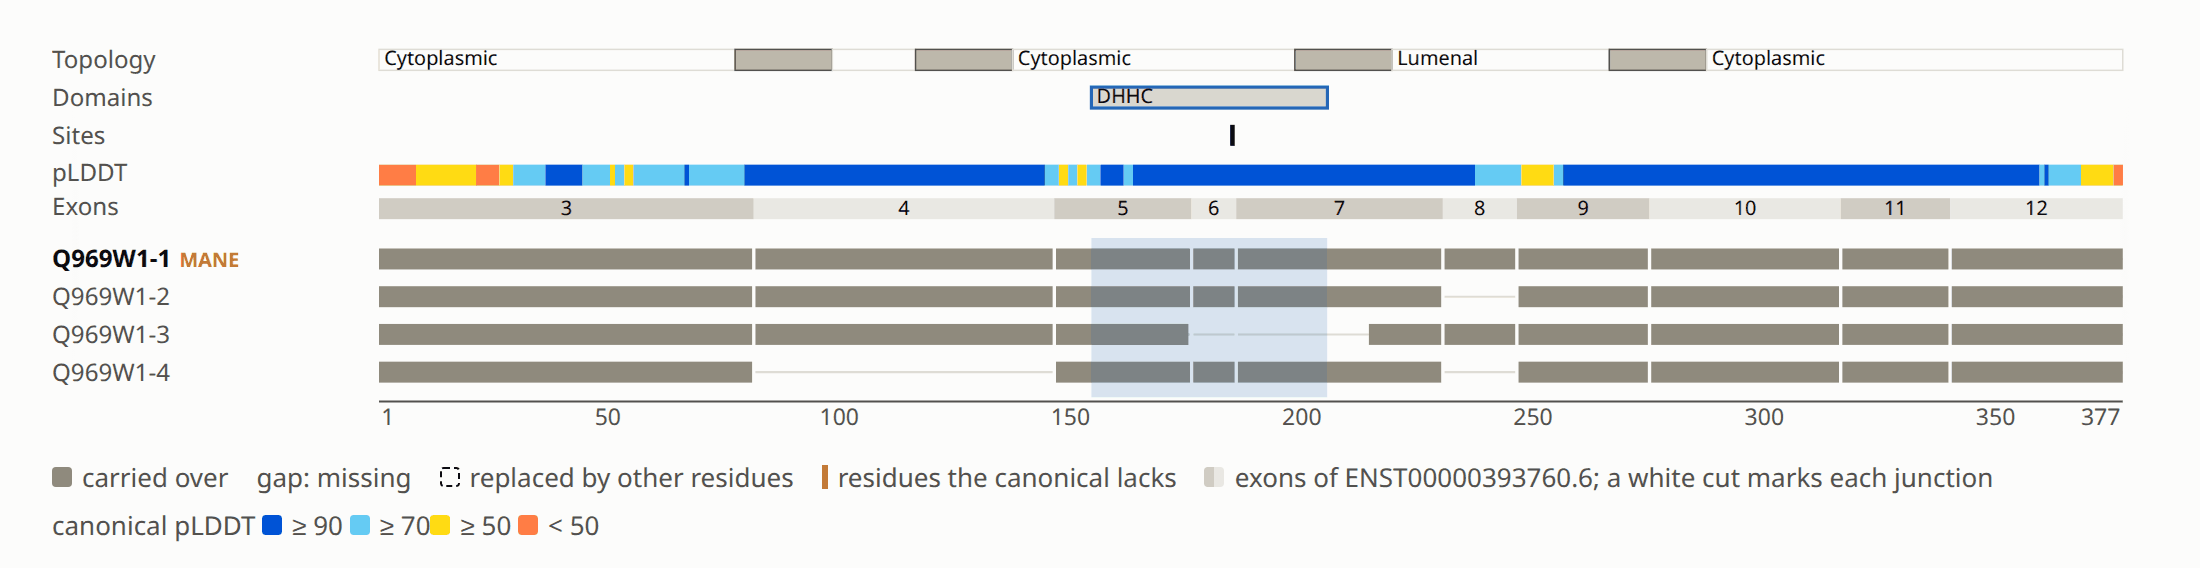
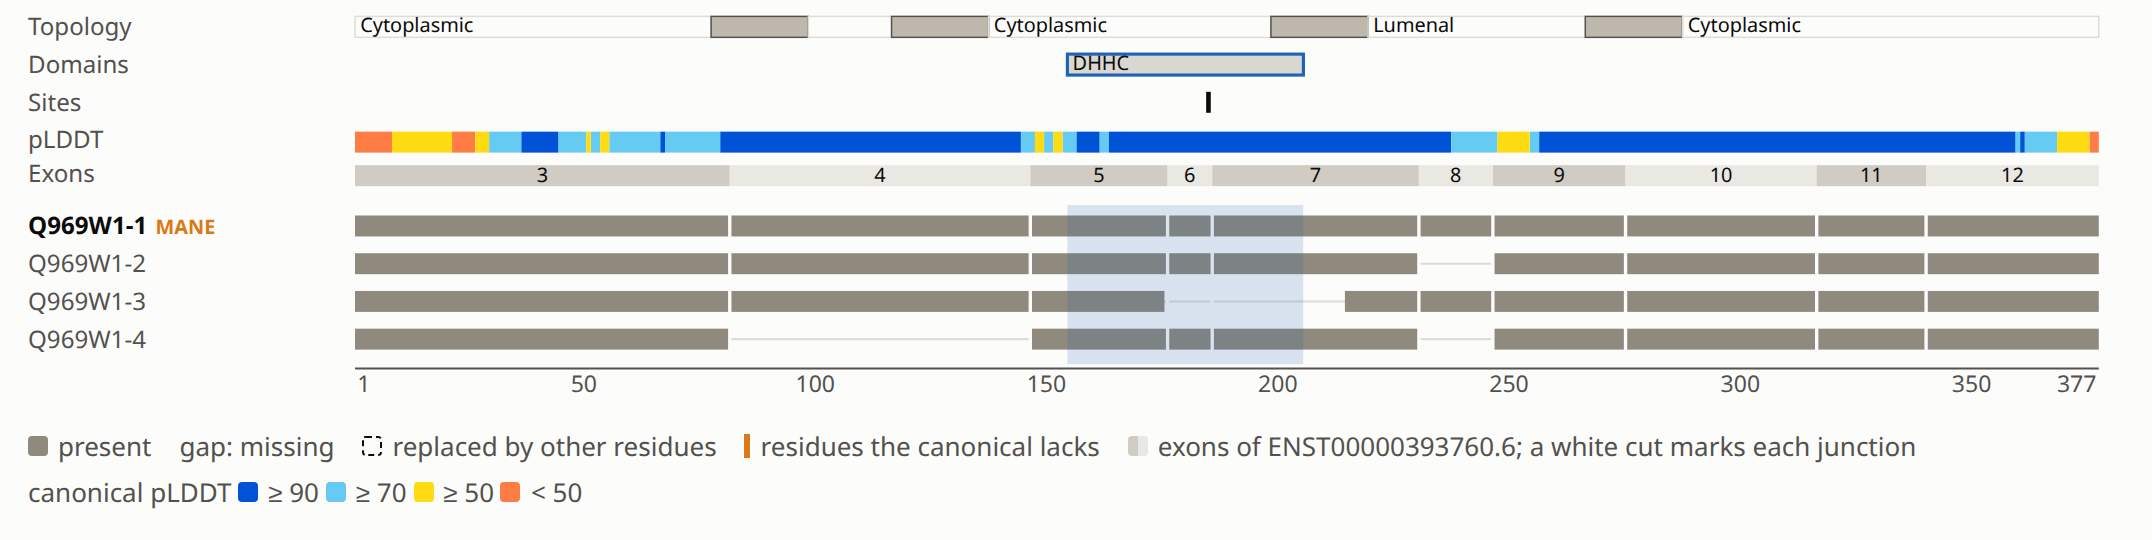
Home: start from a disease; post cards cropped to fill, wide heroes from the left
Eight familiar diseases link to their pages above the worked examples.
Post card images fill their 7:4 box, and heroPosition: 'left' keeps the
title of a wide drawing in the crop. site/preview.png is retaken so its
legend reads "present".

diff --git a/web/styles/site.css b/web/styles/site.css
@@ -217,7 +217,7 @@ section {
   width: 100%;
   height: auto;
   aspect-ratio: 7 / 4;
-  object-fit: contain;
+  object-fit: cover;
   background: var(--surface);
   border: 1px solid var(--border);
   border-radius: 6px;
@@ -928,4 +928,19 @@ table.browse .protein {
 .disease-list li {
   break-inside: avoid;
   margin-bottom: 4px;
+}
+
+.disease-chips {
+  display: flex;
+  flex-wrap: wrap;
+  gap: 8px;
+  padding: 0;
+  list-style: none;
+}
+
+.disease-chips li {
+  padding: 6px 12px;
+  border: 1px solid var(--border);
+  border-radius: 999px;
+  background: var(--surface-2);
 }

diff --git a/web/content.config.ts b/web/content.config.ts
@@ -12,6 +12,7 @@ const blog = defineCollection({
       order: z.number().optional(),
       hero: image(),
       heroAlt: z.string(),
+      heroPosition: z.enum(['left', 'center']).default('center'),
     }),
 })
 

diff --git a/handoffs/design.md b/handoffs/design.md
@@ -118,7 +118,11 @@ story. The same standard applies here.
   linked to that page and hidden on phones. Search (gene, UniProt accession,
   ENST, NM) has its own page, linked from the header: the owner found a search
   box front and center discouraging to visitors who first want to know what
-  the site is about. Then a card per blog post with its hero, and a closing
+  the site is about. Then "Start from a disease": eight familiar disease
+  names (`FAMILIAR` in `web/pages/index.astro`, checked against
+  `diseases.json` at build) and a link to the full list. Then a card per blog
+  post with its hero, cropped to 7:4 (`heroPosition: 'left'` in a post's
+  frontmatter keeps a wide drawing's title in the crop), and a closing
   note that the site compares sequences and points to the expression post
   rather than straight to GTEx, whose per-transcript numbers that post shows
   can mislead. The home page has no tiles of counts: the owner found them

diff --git a/handoffs/status.md b/handoffs/status.md
@@ -60,9 +60,6 @@ file says where the work stands.
 
 - Run a full build and `pnpm check-links` before pushing; every build on
   2026-11-16 was partial (`PAGES=`).
-- Home post cards fit each hero into 7:4, so the wide drawings (NDUFC2,
-  ZDHHC16, CEBPB, about 2.6:1) show small. Either relayout them nearer 7:4 or
-  add a per-post crop.
 - Candidate posts with a new kind of hero: LEF1 isoform 7 (lacks every
   predicted β-catenin contact; a Wnt pathway cartoon) and NDUFV3 (MANE encodes
   473 residues against UniProt's 108; a ruler drawn to scale).
